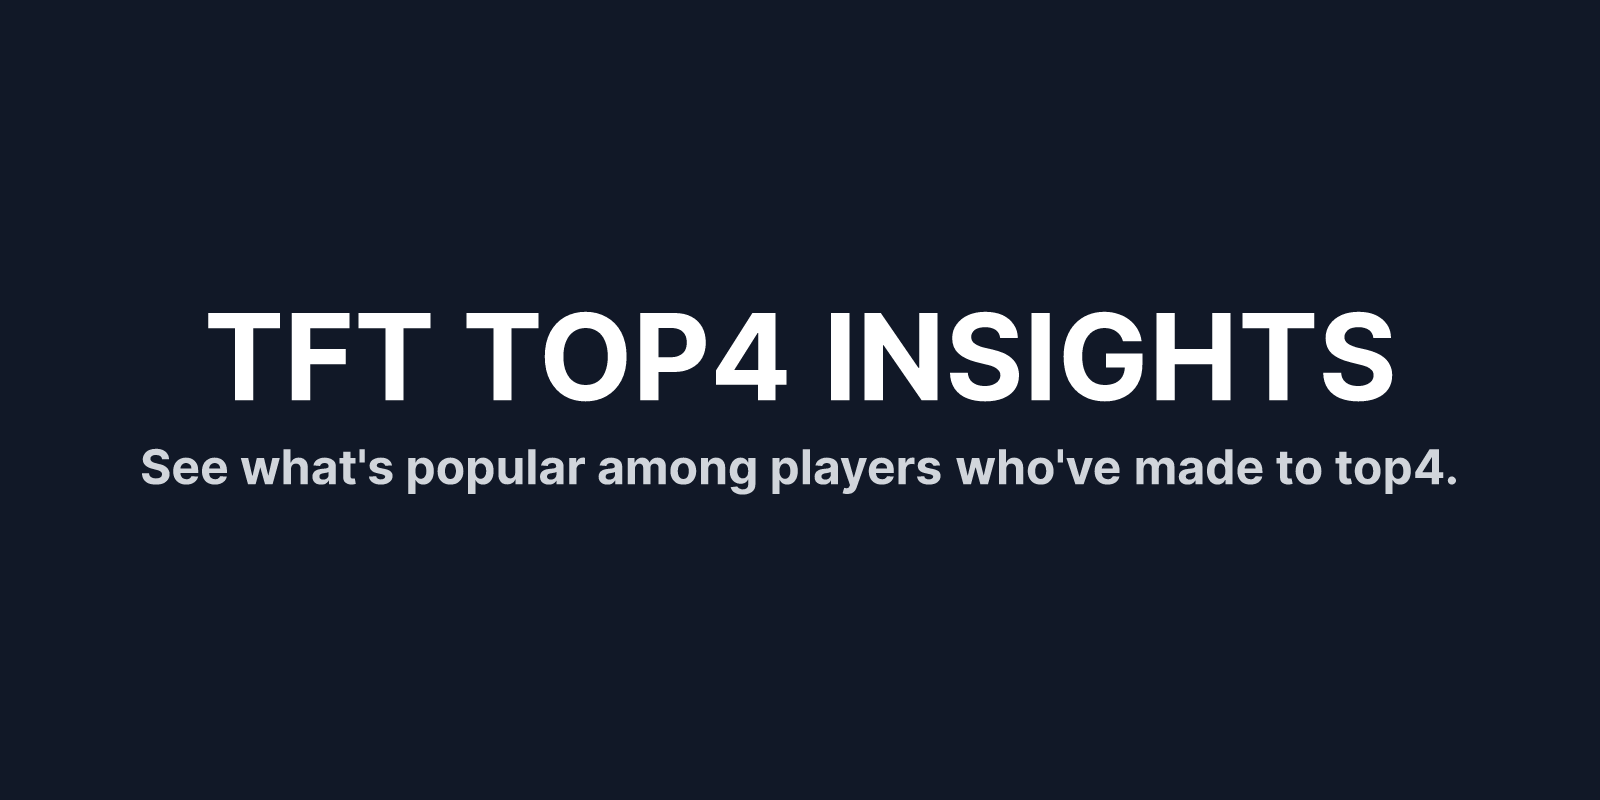
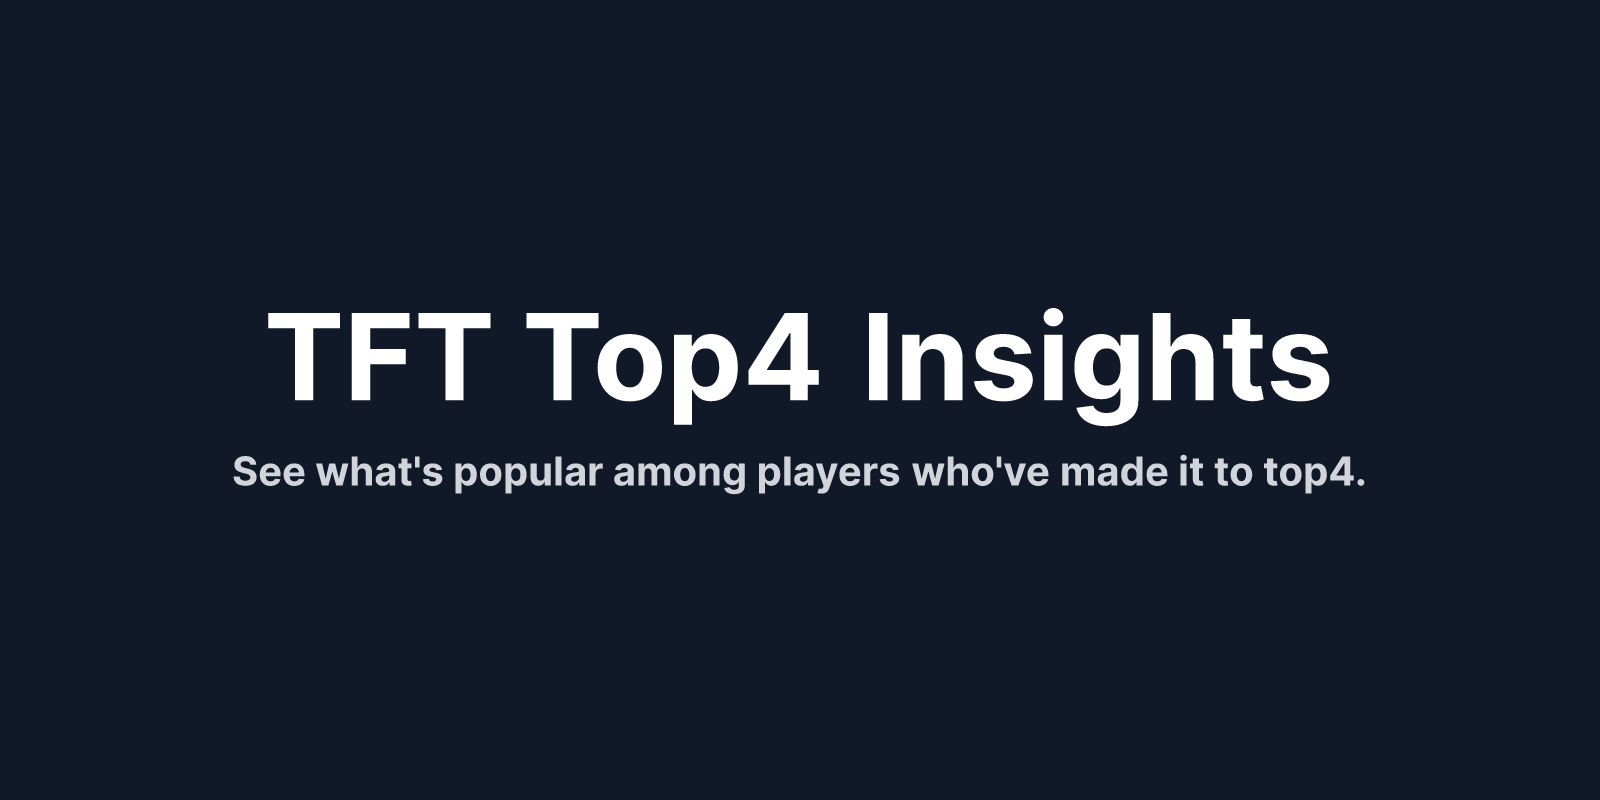
edit description

Changed region(s): [[0.125, 0.375, 0.875, 0.5312], [0.0938, 0.5625, 0.9062, 0.625]]

diff --git a/lib/data-collector.ts b/lib/data-collector.ts
@@ -76,7 +76,7 @@ export default class DataCollector {
     "12.23",
     ".DS_Store", // this gets created whenever you click `Get Info` from the finder context menu.
   ];
-  public static REGIONS_TO_COLLECT: Region[] = ["KR", "NA", "EUNE", "EUW"];
+  public static REGIONS_TO_COLLECT: Region[] = ["NA", "EUNE", "EUW", "KR"];
   public static LEAGUES_TO_COLLECT = [
     "CHALLENGER",
     "GRANDMASTER",

diff --git a/app/const.ts b/app/const.ts
@@ -1,3 +1,3 @@
 export const TITLE = "TFT Top4 Insights";
 export const DESCRIPTION =
-  "See what's popular among TFT players who've made to top4.";
+  "See what's popular among players who've made it to top4.";
